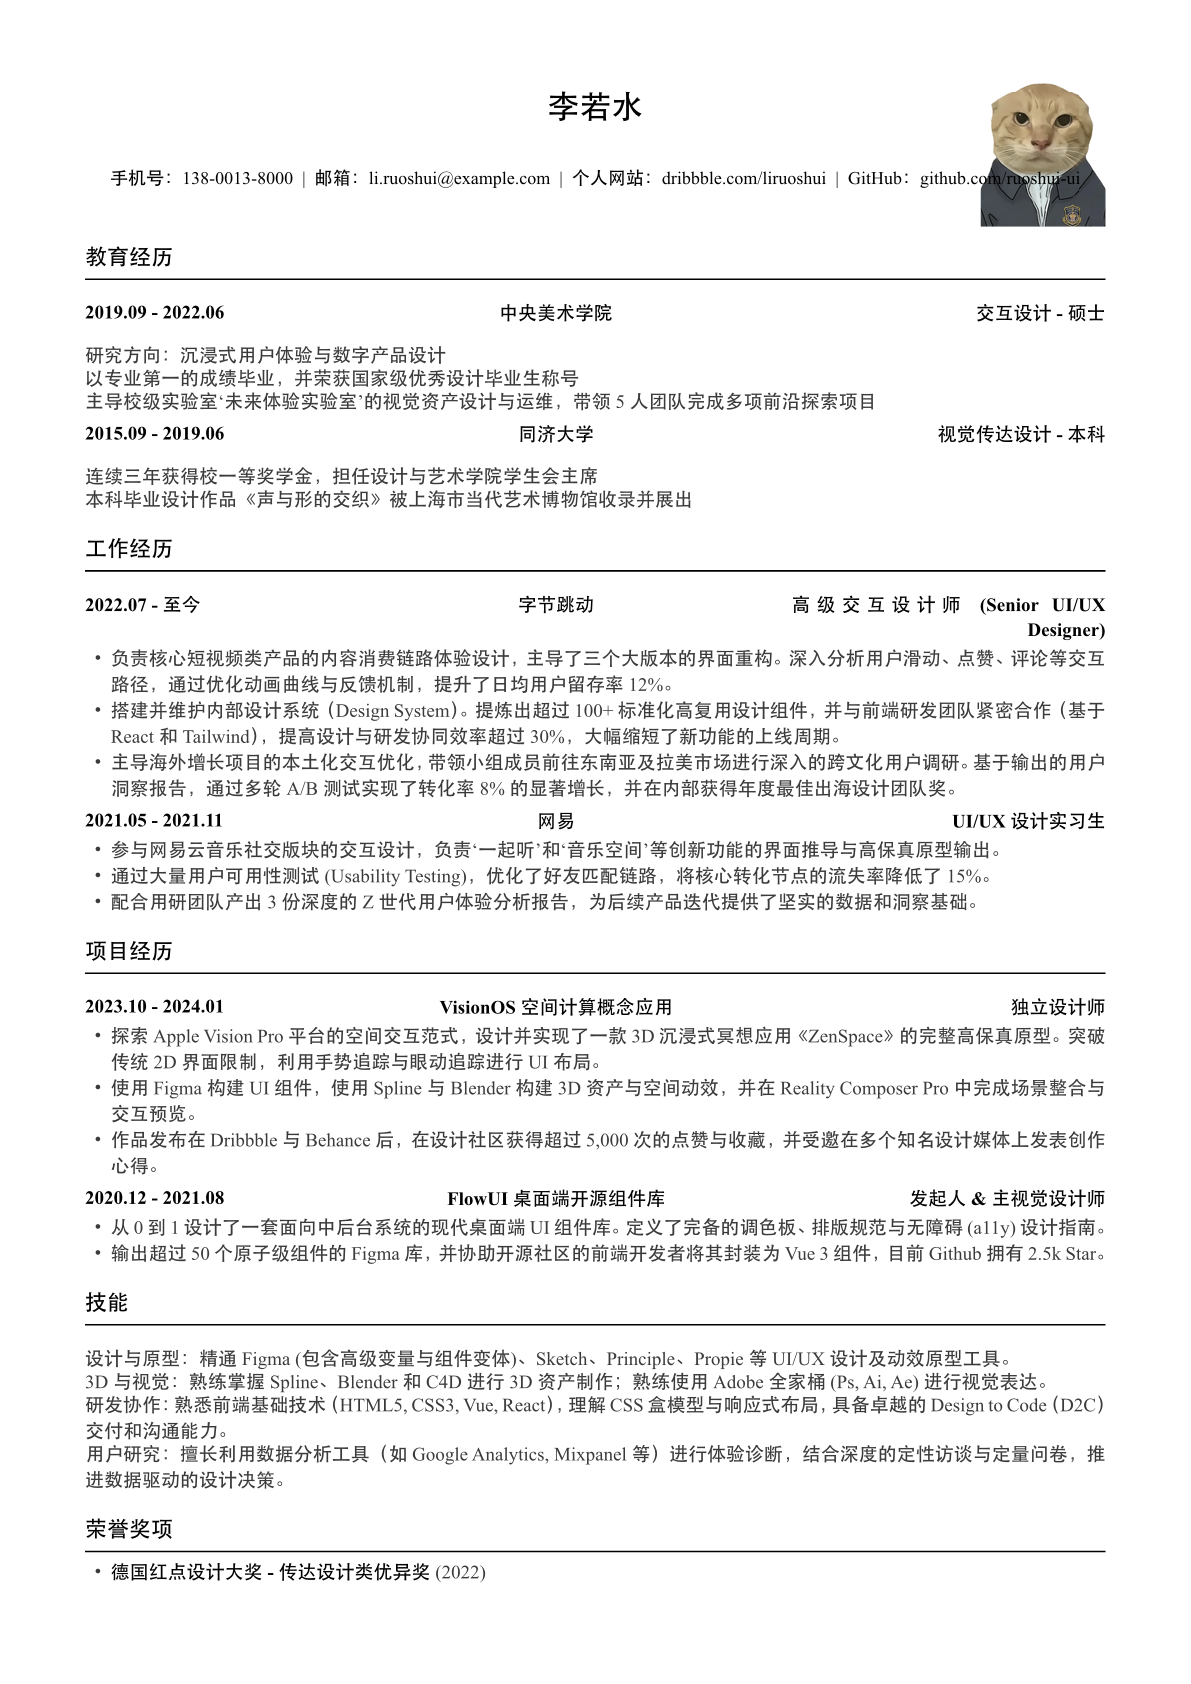
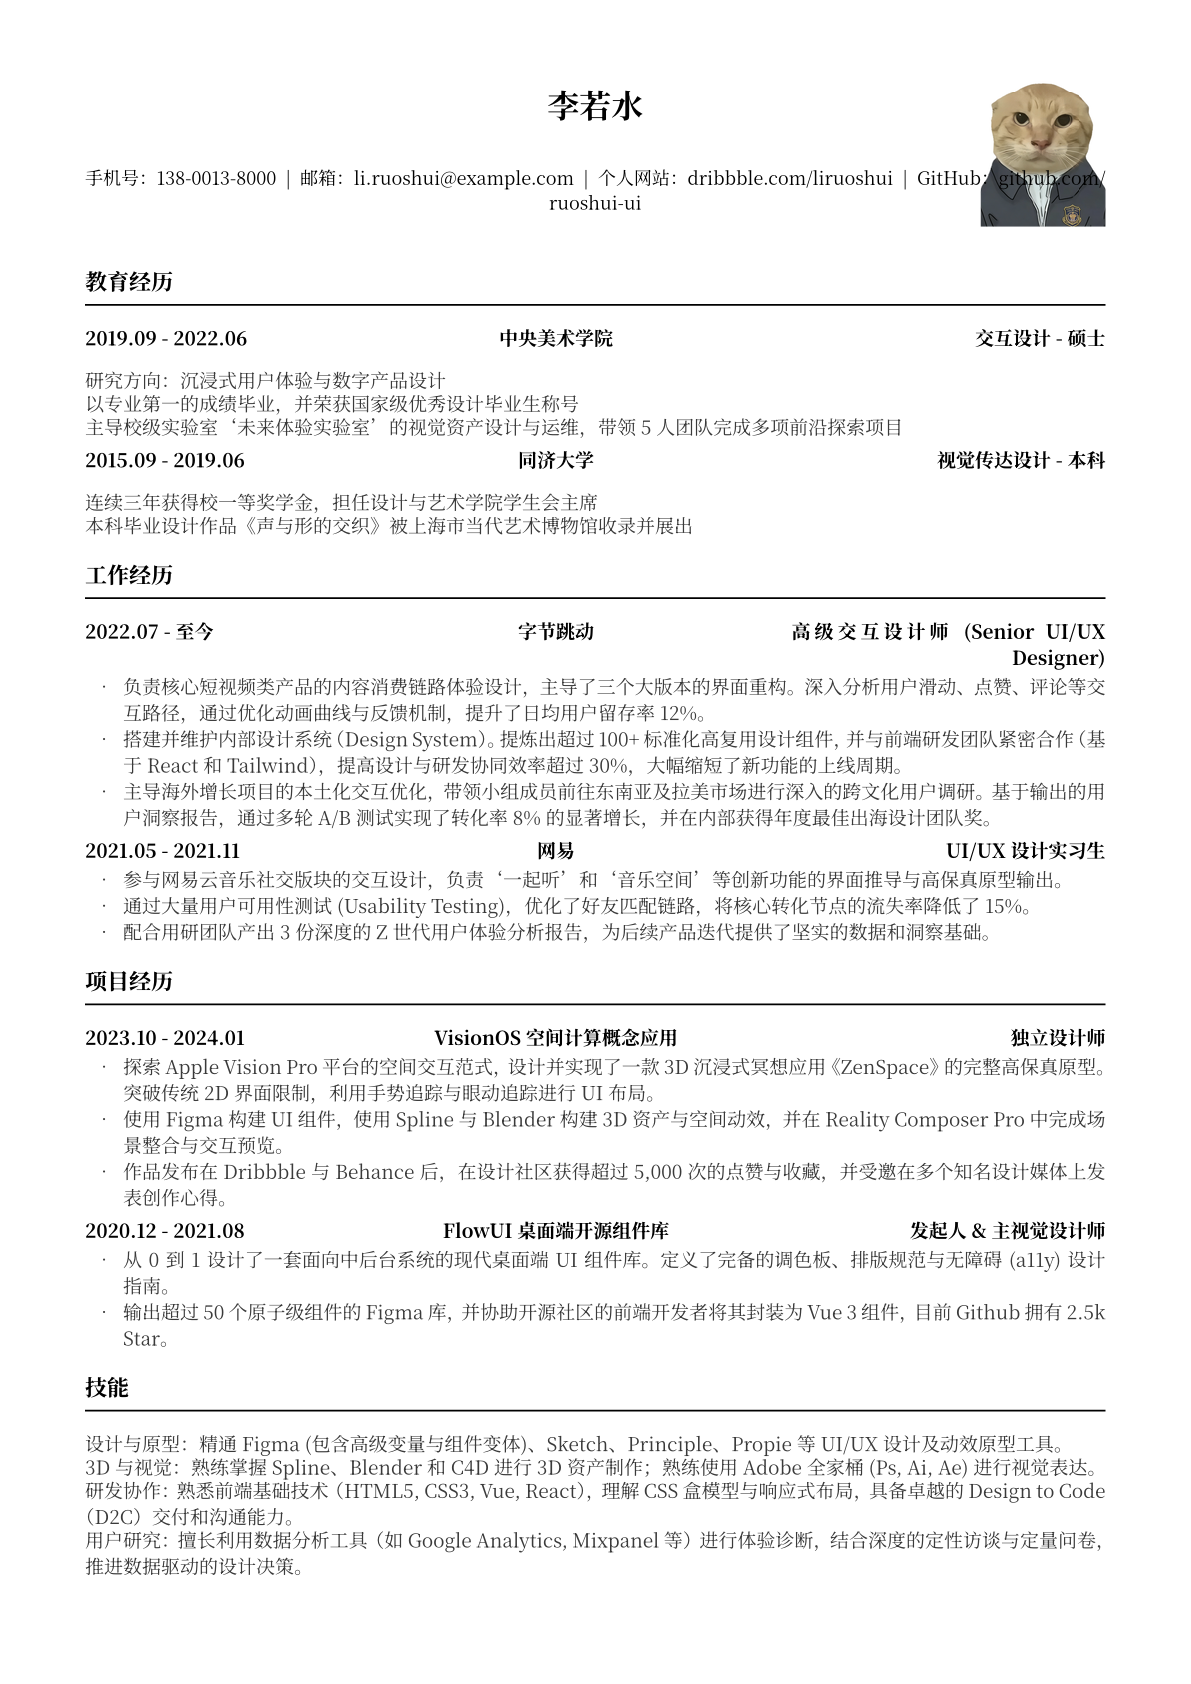
支持全局字体配置，增强字体缺失检查，更新相关文档和示例

Changed region(s): [[0.0621, 0.0309, 0.932, 0.9572], [0.8077, 0.1544, 0.932, 0.2162], [0.7767, 0.247, 0.932, 0.2779]]

diff --git a/compile_previews.py b/compile_previews.py
@@ -4,6 +4,122 @@ import argparse
 import re
 import tempfile
 
+FONT_WARNING_PATTERNS = [
+    re.compile(r"warning.*font", re.IGNORECASE),
+    re.compile(r"font.*(not found|unknown|missing|could not find)", re.IGNORECASE),
+    re.compile(r"字体.*(不存在|缺失|找不到)", re.IGNORECASE),
+]
+
+LOCAL_FONTS_DIR = "fonts"
+_AVAILABLE_FONTS_CACHE = None
+
+ANSI_RED = "\033[31m"
+ANSI_RESET = "\033[0m"
+
+
+def red(text):
+    """将文本标记为红色（终端高亮）"""
+    return f"{ANSI_RED}{text}{ANSI_RESET}"
+
+
+def extract_font_warnings(stderr_text):
+    """从 typst stderr 中提取字体相关警告行"""
+    if not stderr_text:
+        return []
+
+    matches = []
+    for line in stderr_text.splitlines():
+        text = line.strip()
+        if not text:
+            continue
+        if any(p.search(text) for p in FONT_WARNING_PATTERNS):
+            matches.append(text)
+    return matches
+
+
+def report_font_warnings(theme_name, warnings):
+    """统一输出字体缺失报错提示"""
+    print(red(f"  失败 [{theme_name}]: 检测到字体缺失/字体回退警告（strict-fonts 已开启）"))
+    for w in warnings:
+        print(red(f"    - {w}"))
+
+
+def get_available_font_families():
+    """获取 Typst 可发现的字体族名称（包含本地 fonts/）"""
+    global _AVAILABLE_FONTS_CACHE
+    if _AVAILABLE_FONTS_CACHE is not None:
+        return _AVAILABLE_FONTS_CACHE
+
+    cmd = ["typst", "fonts"]
+    if os.path.isdir(LOCAL_FONTS_DIR):
+        cmd.extend(["--font-path", LOCAL_FONTS_DIR])
+
+    try:
+        result = subprocess.run(cmd, capture_output=True, text=True)
+        if result.returncode != 0:
+            _AVAILABLE_FONTS_CACHE = set()
+            return _AVAILABLE_FONTS_CACHE
+
+        fonts = set()
+        for line in result.stdout.splitlines():
+            family = line.strip()
+            if family:
+                fonts.add(family)
+
+        _AVAILABLE_FONTS_CACHE = fonts
+        return fonts
+    except Exception:
+        _AVAILABLE_FONTS_CACHE = set()
+        return _AVAILABLE_FONTS_CACHE
+
+
+def extract_theme_declared_fonts(template_path):
+    """从主题模板中提取主题声明字体（用于 strict-fonts 预校验）"""
+    if not template_path or not os.path.exists(template_path):
+        return []
+
+    with open(template_path, "r", encoding="utf-8") as f:
+        content = f.read()
+
+    candidates = []
+
+    # 常规主题：let fonts-theme = ("A", "B")
+    for m in re.finditer(r"let\s+fonts-theme\s*=\s*\((.*?)\)", content, flags=re.DOTALL):
+        candidates.extend(re.findall(r'"([^"\\]+)"', m.group(1)))
+
+    # ats-friendly：settings.at("font", default: "...")
+    candidates.extend(re.findall(r'settings\.at\("font"\s*,\s*default:\s*"([^"\\]+)"\)', content))
+
+    # 去重并保持顺序
+    fonts = []
+    for c in candidates:
+        if c not in fonts:
+            fonts.append(c)
+    return fonts
+
+
+def precheck_theme_fonts(theme, strict_fonts):
+    """strict-fonts 模式下先做字体存在性检查"""
+    if not strict_fonts:
+        return True
+
+    available = get_available_font_families()
+    declared = extract_theme_declared_fonts(theme.get("template"))
+
+    # 没提取到就跳过预检查，避免误杀
+    if not declared:
+        return True
+
+    missing = [f for f in declared if f not in available]
+    if not missing:
+        return True
+
+    print(red(f"  失败 [{theme['name']}]: 主题声明字体缺失（strict-fonts 预检查）"))
+    for f in missing:
+        print(red(f"    - 缺失字体: {f}"))
+    print(red("    - 提示: 将字体安装到系统，或放入 fonts/ 并确保字体族名称与主题中完全一致"))
+    return False
+
 def list_themes():
     """扫描 themes 目录，返回包含 template.typ 的主题列表"""
     themes = []
@@ -25,7 +141,7 @@ def list_themes():
                 })
     return sorted(themes, key=lambda x: x["name"])
 
-def compile_preview(theme, format="pdf"):
+def compile_preview(theme, format="pdf", strict_fonts=False):
     """编译主题自带的 example.typ 预览"""
     if not theme["example"]:
         print(f"  跳过 [{theme['name']}]: 找不到 example.typ")
@@ -36,6 +152,9 @@ def compile_preview(theme, format="pdf"):
     output_file = os.path.join(theme_path, f"{theme_name}.{format}")
     
     print(f"正在编译 [{theme_name}] 示例 -> {format.upper()}...")
+
+    if not precheck_theme_fonts(theme, strict_fonts):
+        return False
     
     cmd = [
         "typst", "compile",
@@ -44,9 +163,18 @@ def compile_preview(theme, format="pdf"):
         "--pages", "1",
         "--root", "."
     ]
+
+    if os.path.isdir(LOCAL_FONTS_DIR):
+        cmd.extend(["--font-path", LOCAL_FONTS_DIR])
     
     try:
         result = subprocess.run(cmd, capture_output=True, text=True)
+        font_warnings = extract_font_warnings(result.stderr)
+
+        if result.returncode == 0 and strict_fonts and font_warnings:
+            report_font_warnings(theme_name, font_warnings)
+            return False
+
         if result.returncode == 0:
             print(f"  成功: {output_file}")
             return True
@@ -57,7 +185,7 @@ def compile_preview(theme, format="pdf"):
         print(f"  错误: {str(e)}")
         return False
 
-def compile_resume_for_theme(theme, resume_content, output_dir, data_file, format="pdf"):
+def compile_resume_for_theme(theme, resume_content, output_dir, data_file, format="pdf", strict_fonts=False):
     """使用指定主题和数据文件编译用户的 resume.typ 内容"""
     theme_name = theme["name"]
     output_file = os.path.join(output_dir, f"{theme_name}.{format}")
@@ -78,6 +206,11 @@ def compile_resume_for_theme(theme, resume_content, output_dir, data_file, forma
         tmp_path = tmp.name
     
     print(f"正在生成 [{theme_name}] 预览 (数据: {data_file})...")
+
+    if not precheck_theme_fonts(theme, strict_fonts):
+        if os.path.exists(tmp_path):
+            os.remove(tmp_path)
+        return False
     
     cmd = [
         "typst", "compile",
@@ -85,12 +218,21 @@ def compile_resume_for_theme(theme, resume_content, output_dir, data_file, forma
         output_file,
         "--root", "."
     ]
+
+    if os.path.isdir(LOCAL_FONTS_DIR):
+        cmd.extend(["--font-path", LOCAL_FONTS_DIR])
     
     if format == "png":
         cmd.extend(["--pages", "1"])
         
     try:
         result = subprocess.run(cmd, capture_output=True, text=True)
+        font_warnings = extract_font_warnings(result.stderr)
+
+        if result.returncode == 0 and strict_fonts and font_warnings:
+            report_font_warnings(theme_name, font_warnings)
+            return False
+
         if result.returncode == 0:
             print(f"  完成: {output_file}")
             return True
@@ -151,6 +293,7 @@ def main():
     parser.add_argument("--preview", action="store_true", help="使用指定的 data.yml 为所有主题生成简历预览")
     parser.add_argument("-f", "--file", default="data.yml", help="指定数据文件 (默认: data.yml)")
     parser.add_argument("--format", choices=["pdf", "png"], default="pdf", help="--preview 的输出格式 (默认: pdf)")
+    parser.add_argument("--strict-fonts", action="store_true", help="将字体缺失/回退警告视为错误并使编译失败")
     parser.add_argument("--all", action="store_true", help="执行所有任务")
     
     args = parser.parse_args()
@@ -178,18 +321,18 @@ def main():
             if not os.path.exists(output_dir):
                 os.makedirs(output_dir)
             for theme in themes:
-                compile_resume_for_theme(theme, resume_content, output_dir, args.file, args.format)
+                compile_resume_for_theme(theme, resume_content, output_dir, args.file, args.format, args.strict_fonts)
             print(f"\n预览已生成在 {output_dir}/ 目录下。")
 
     if args.pdf or args.all:
         print("\n=== 开始生成主题自带 PDF 示例 ===")
         for theme in themes:
-            compile_preview(theme, "pdf")
+            compile_preview(theme, "pdf", args.strict_fonts)
 
     if args.png or args.all:
         print("\n=== 开始生成主题自带 PNG 预览图 ===")
         for theme in themes:
-            compile_preview(theme, "png")
+            compile_preview(theme, "png", args.strict_fonts)
 
     if args.readme or args.all:
         print("\n=== 更新 README ===")

diff --git a/themes/DEVELOP.md b/themes/DEVELOP.md
@@ -4,6 +4,32 @@
 
 ---
 
+## 字体覆盖与校验（重要）
+
+本项目已支持全局字体优先：`resume.typ` 会把 `data.yml` 中的 `global-font.fonts` 传入主题的 `fonts-global` 参数。
+
+主题侧推荐模式：
+
+```typst
+#let fonts-theme = ("Heiti SC", "PingFang SC")
+#let fonts-effective = if fonts-global.len() > 0 { (..fonts-global, ..fonts-theme) } else { fonts-theme }
+#set text(font: fonts-effective)
+```
+
+请注意：
+
+1. 字体族名称必须与 Typst 识别名称一致（可用 `typst fonts --font-path fonts` 查询）。
+2. 如果依赖仓库内 `fonts/` 目录字体，编译时必须传 `--font-path fonts`。
+3. 开发/发布前建议执行严格字体检查，避免“本机有字体、他人环境缺失”问题：
+
+```bash
+python compile_previews.py --preview --strict-fonts
+```
+
+4. 避免在局部 `text(...)` 中硬编码其他字体（如 `font: "Arial"`），否则会绕过全局字体覆盖。
+
+---
+
 ## 1. 目录结构规范
 
 每一个新主题必须放置在 `themes/<主题名>/` 目录下，并且至少包含以下两个核心文件：
@@ -133,18 +159,20 @@ awards:
 
 ## 3. 接口标准规范（传统方式）
 
-如果不使用模块化协议，`template.typ` 必须导出一个名为 `blueprint` 的入口函数，并接收 `data` 字典作为参数。**字体完全由主题自主决定**，在 `blueprint` 内部定义：
+如果不使用模块化协议，`template.typ` 必须导出一个名为 `blueprint` 的入口函数，并接收 `data` 字典作为参数。推荐同时支持可选参数 `fonts-global`，用于接收来自 `resume.typ` 的全局字体列表，实现“全局字体优先、主题字体兜底”。
 
 ```typst
 #let blueprint(
   data: (:),
+  fonts-global: (),
   body,
 ) = {
   // 主题字体配置（由主题作者决定）
   let fonts-theme = ("Heiti SC", "Heiti SC")
+  let fonts-effective = if fonts-global.len() > 0 { (..fonts-global, ..fonts-theme) } else { fonts-theme }
 
   // 应用字体
-  set text(font: fonts-theme)
+  set text(font: fonts-effective)
 
   // 渲染逻辑...
 }

diff --git a/README.md b/README.md
@@ -24,6 +24,9 @@
 # 编译主简历 (使用 resume.typ 中指定的主题)
 typst compile resume.typ
 
+# 若使用本地 fonts/ 目录中的字体，需显式指定字体路径
+typst compile resume.typ --font-path fonts
+
 # 预览特定主题 (以 modern 为例)
 typst compile themes/modern/example.typ --root .
 ```
@@ -45,6 +48,35 @@ python compile_previews.py --preview
 
 # 2. 使用指定的数据文件 (如 my_data.yml) 为所有主题生成预览
 python compile_previews.py --preview -f my_data.yml
+
+# 3. 严格字体检查：主题声明字体缺失时直接失败
+python compile_previews.py --preview --strict-fonts
+```
+
+## Font 配置与排错
+
+项目支持全局字体优先，主题字体兜底：
+
+```yaml
+global-font:
+    # 按顺序回退
+    fonts: ["Noto Serif SC"]
+```
+
+注意事项：
+
+1. 字体族名称必须与 Typst 识别到的名称完全一致。
+2. 如果字体放在仓库 `fonts/` 目录，`typst compile` 时必须加 `--font-path fonts`。
+3. 可用如下命令查看 Typst 实际识别到的字体族：
+
+```bash
+typst fonts --font-path fonts
+```
+
+4. 批量预览推荐开启严格模式，缺失字体会明确报错：
+
+```bash
+python compile_previews.py --pdf --strict-fonts
 ```
 
 ## 🎨 主题
